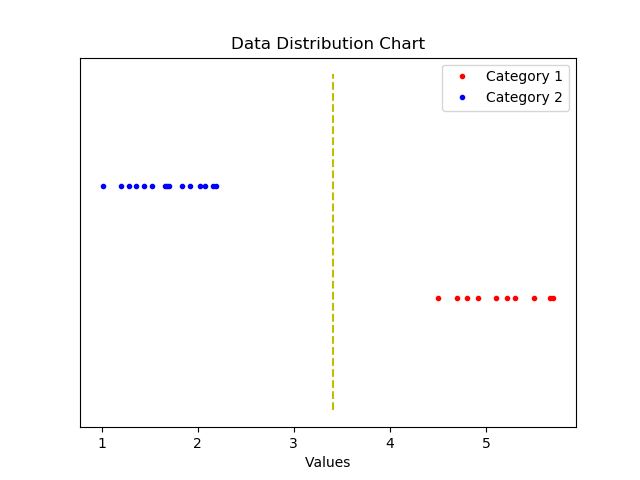
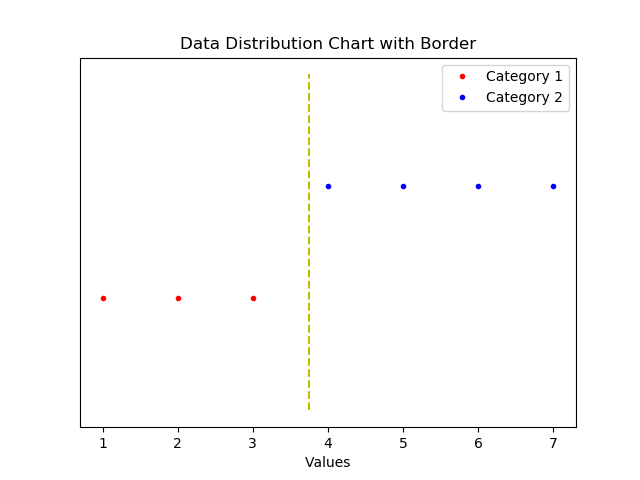
README.md update
Documentation Update with new-version image and adding some description in FileManager Class.

diff --git a/README.md b/README.md
@@ -223,6 +223,7 @@ Look how it worked!
 Saves in in-class-variable and returns calculated Border value in float, by Signed-Mean-Border Algorithm. Signed-Mean-Border Algorithm is one of the algorithms which tries to find border value by minimizing the Average of Signed-Cost of Data. Singed-Mean-Border Algorithm is suitable with data with overlapping parts, without considering the number of each category. You don't need a variable to store return value especially when you're planning to just display Border in Chart and no uses for exporting border values because when you run this method it will save border value to in-class-variable automatically.
 
 **Example**
+
 ```python
 manager = ba2cc.BAManager([1,2,3], [4,5,6,7])
 border = manager.calculateSignedMeanBorder()
@@ -539,9 +540,29 @@ If ```data.csv``` looks like this:
 ```
 then cat1, cat2 will be ```python [1,2,3]```, ```python [2,3]``` each. Do not forget ```loadFile()``` method reads CSV file vertically.
 
+Also, remember that your target CSV file does NOT have any in-middle BLANK area like following example. Otherwise, there would be a fatal error.
+
+```
+1,2
+2,    <- This Blank can be a problem.
+3,4
+4,
+```
+
+or 
+
+```
+1,2
+,     <- These two blanks can be some problems.
+3,4
+4,
+```
+
+
+
 ###### FUNCTION writeData(category1_data_in_list, category2_data_in_list)
 
-Writes given data as CSV file. Requires two parameters: ```category1_data_in_list``` and ```category2_data_in_list```. Parameter ```category1_data_in_list``` is a list of data that you'll put in the first category, and parameter ```category2_data_in_list``` is a list of data that you'll put in the second category. Those parameters must be a list object. Otherwise, there would be a fatal error. This method also automatically opens and closes the file, so don't open or close your file manually when you use this method.
+Writes given data as CSV file. Requires two parameters: ```category1_data_in_list``` and ```category2_data_in_list```. Parameter ```category1_data_in_list``` is a list of data that you'll put in the first category, and parameter ```category2_data_in_list``` is a list of data that you'll put in the second category. Those parameters must be a list object with float or int values. Otherwise, there would be a fatal error. This method also automatically opens and closes the file, so don't open or close your file manually when you use this method.
 
 **Example**
 
@@ -599,5 +620,3 @@ fileManager.openFile()
 fileManager.reloadFile()
 fileManager.closeFile()
 ```
-
-###### 
